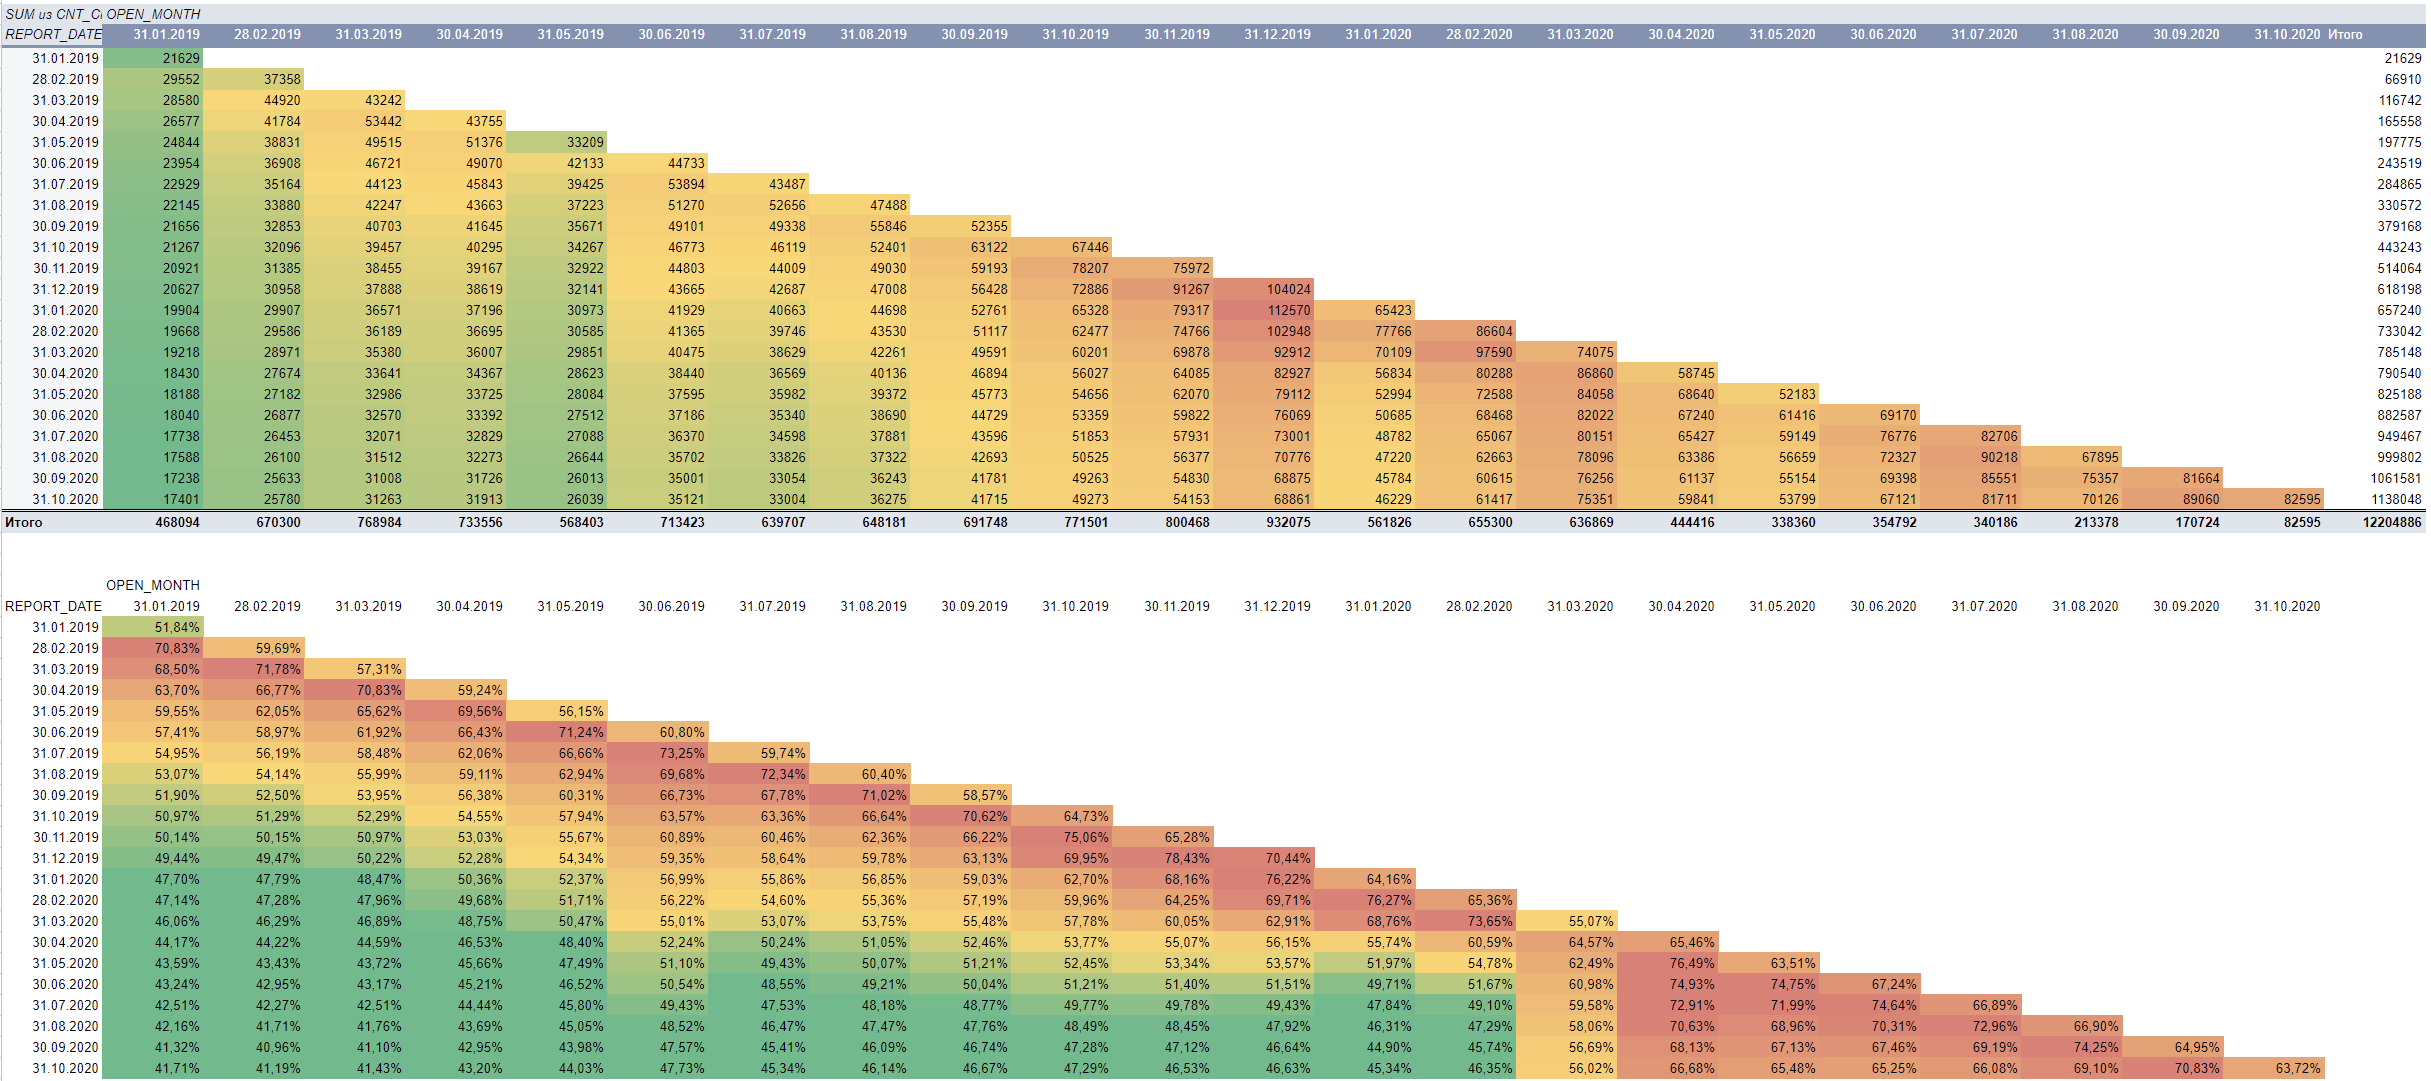
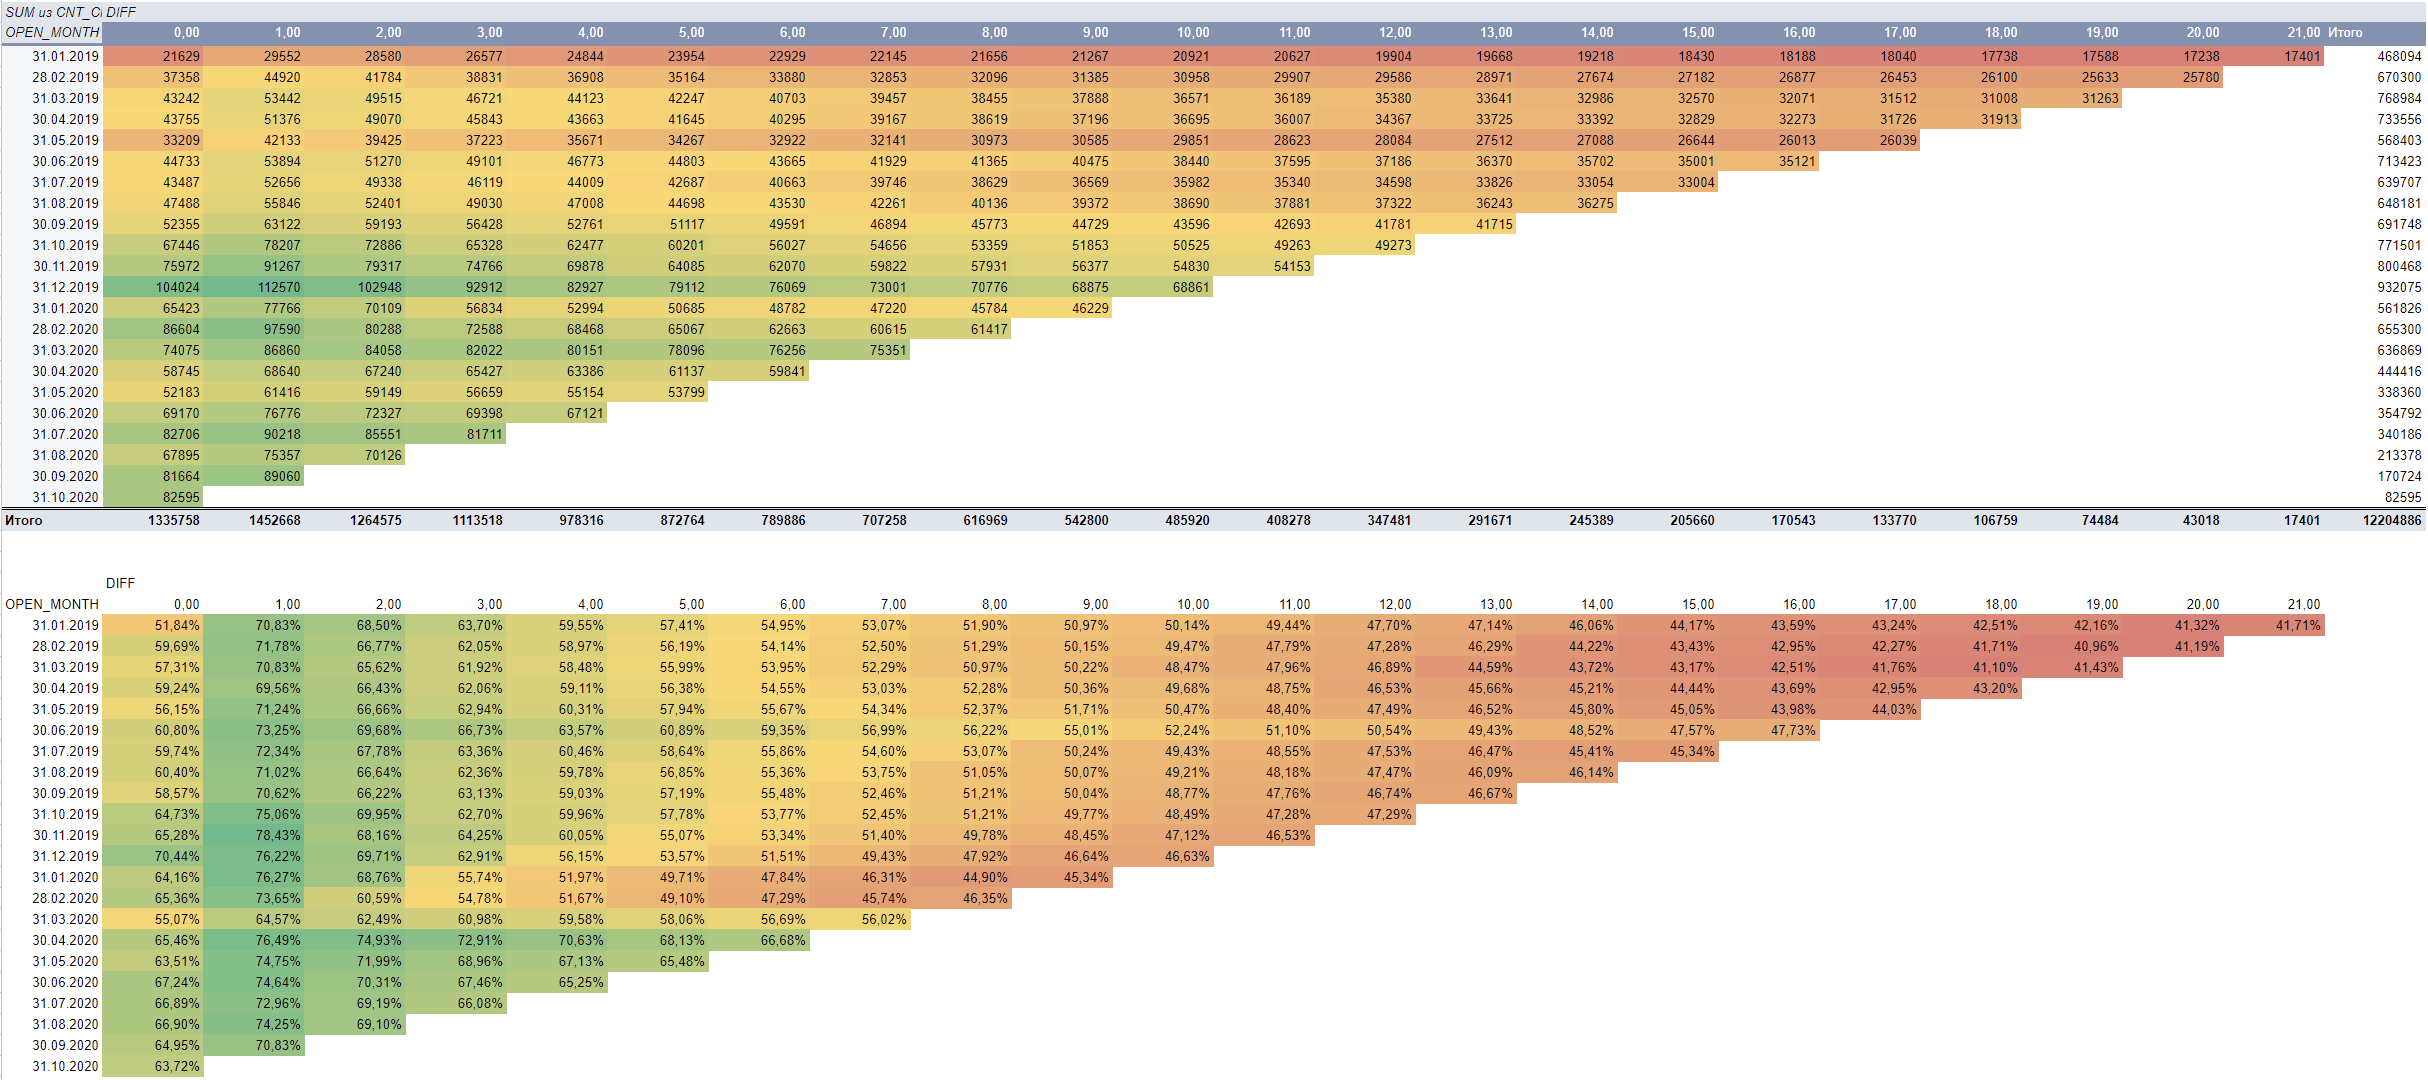
Built site for gh-pages

diff --git a/test task/Test task.html b/test task/Test task.html
@@ -375,25 +375,42 @@ pre > code.sourceCode > span > a:first-child::before { text-decoration: underlin
 <h4 class="anchored" data-anchor-id="активная-база-и-отток">1. Активная база и отток</h4>
 <p>Сначала посмотрим на объём</p>
 <p><img src="./ab.png" class="img-fluid"></p>
+<p>Продукт показывает устойчивый рост со стагнирующим малым оттоком</p>
 </section>
 <section id="эффективность-привлечения-новых-клиентов" class="level4">
 <h4 class="anchored" data-anchor-id="эффективность-привлечения-новых-клиентов">2. Эффективность привлечения новых клиентов</h4>
 <p>Как быстро объём набирается, и что является более эффективным инструментом</p>
 <p><img src="./new.png" class="img-fluid"></p>
+<p>Каналы привлечения клиентов имели разную эффективность на протяжении жизни продукта, однако в конце сумели сбалансироваться, что говорит о подходе к маркетингу в равномерном привлечении по разным источникам</p>
 </section>
 <section id="эффективность-продуктов" class="level4">
 <h4 class="anchored" data-anchor-id="эффективность-продуктов">3. Эффективность продуктов</h4>
 <p>Какие продукты популярны у клиентов, и на каких фокусировать своё развитие</p>
 <p><img src="./prod.png" class="img-fluid"></p>
+<p>Данные по оттоку удалось найти тольпо 4 и 8 продукту, что означает, что оттока по остальным продуктам нет?</p>
+<p><img src="./ch48.png" class="img-fluid"></p>
 </section>
 <section id="коэффициент-удержания" class="level4">
 <h4 class="anchored" data-anchor-id="коэффициент-удержания">4. Коэффициент удержания</h4>
 <p>На сколько лояльны клиенты продуктам банка. На картинке ретеншен рейт снизу, сверху та же матрица, но в кол-ве клиентов</p>
 <p><img src="./ret.png" class="img-fluid"></p>
+<p>Ретеншен есть опять же у продуктов 4 и 8, как и в случае с оттоком</p>
+<section id="продукт-4" class="level5">
+<h5 class="anchored" data-anchor-id="продукт-4">Продукт 4</h5>
+<p><img src="./ret4.png" class="img-fluid"></p>
+</section>
+<section id="продукт-8" class="level5">
+<h5 class="anchored" data-anchor-id="продукт-8">Продукт 8</h5>
+<p><img src="./ret8.png" class="img-fluid"></p>
+<p>По обоим продуктам, и по картине ретеншена в целом, видно, что происходила просадка для когорт начала 20-ого года, что может быть связано с началом эпидемии короновируса и с тем, что траффик был больше обычного, динамика роста активной базы оставалась на том же уровне.</p>
+<p>В целом, ретеншен остаётся довольно высоким на интервале рассмотрения года</p>
+<p>Оставшиеся продукты (1,2,3,5,6,7), по видимому, являются one-time продуктами, и не предполагают подписочного продления.</p>
+<p>Так же, по динамике продуктов видно, что Продукт 7 сильно скоррелирован с Продуктом 8, что означают, что его продают в качестве add-on продукта к основному восьмому.</p>
 <p>Несомненно, что анализ не закончен, однако данные 4 панели я бы хотел показать оунерам как характеризующие состояние продукта и его динамику за 2 года.</p>
-<p>Необходимо проанализировать каждый продукт на его удержание. Так же видно, что продукты 8 и 9 обладает наибольшей активностью, так что их нужно пытаться продать в связке вместе с другими семью, что приводит к точке роста потенциальные кросс-продажи: Выявление комбинаций продуктов, которые часто используются вместе, и предложение кросс-продаж для клиентов.</p>
+<p>Необходимо проанализировать потенциальные кросс-продажи: Выявление комбинаций продуктов, которые часто используются вместе, и предложение кросс-продаж для клиентов.</p>
 
 
+</section>
 </section>
 </section>
 
